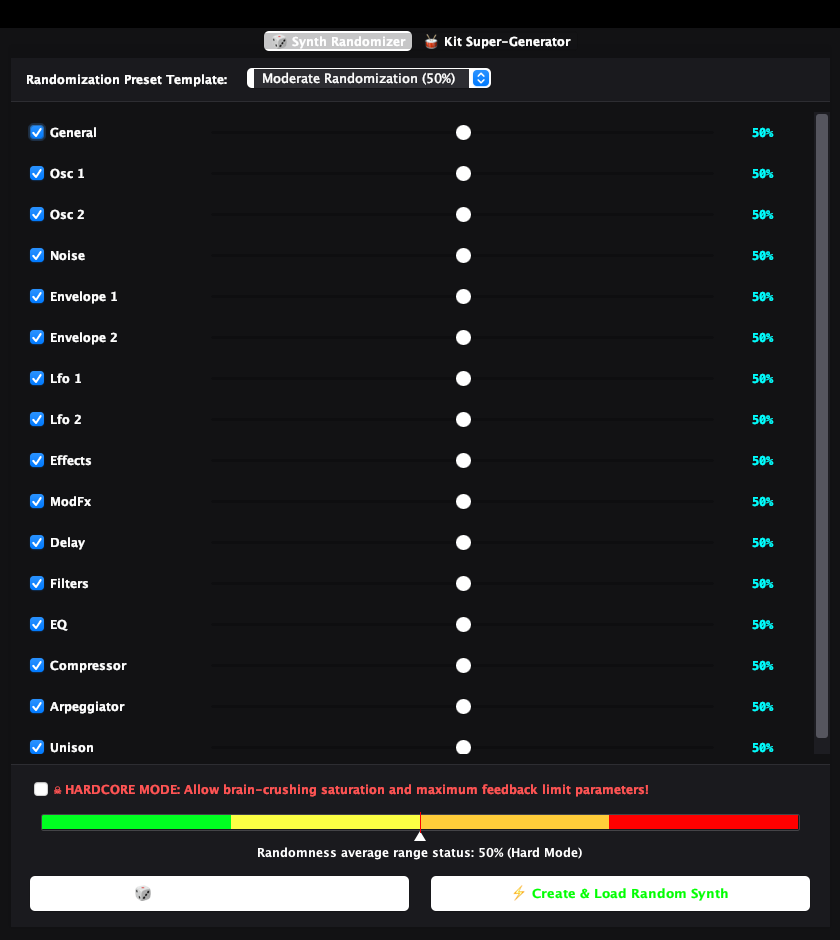
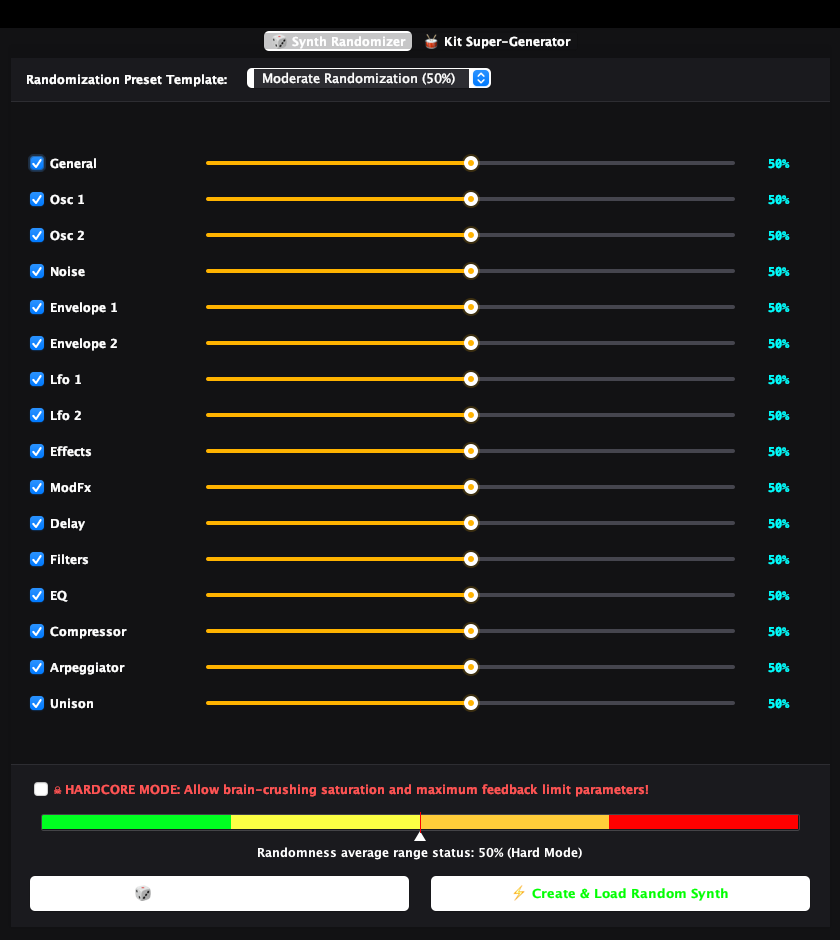
fix: resolve black-on-black slider tracks bug by implementing a custom premium track-splitting DarkSliderUI delegate globally

diff --git a/deluge/src/main/java/org/chuck/deluge/ui/DarkSliderUI.java b/deluge/src/main/java/org/chuck/deluge/ui/DarkSliderUI.java
@@ -1,0 +1,106 @@
+package org.chuck.deluge.ui;
+
+import java.awt.*;
+import javax.swing.*;
+import javax.swing.plaf.basic.BasicSliderUI;
+
+/**
+ * A luxury, modern dark-neon JSlider UI delegate. Paints a custom sleek 4px rounded track rail with
+ * split active/inactive segments and a glossy circular thumb knob with neon outer glow rings.
+ */
+public class DarkSliderUI extends BasicSliderUI {
+
+  private final Color accentColor;
+
+  public static javax.swing.plaf.ComponentUI createUI(JComponent c) {
+    return new DarkSliderUI((JSlider) c, new Color(0xff, 0xb3, 0x00)); // Default System Gold Amber!
+  }
+
+  public DarkSliderUI(JSlider b, Color accentColor) {
+    super(b);
+    this.accentColor = accentColor;
+  }
+
+  public static void styleSlider(JSlider slider, Color accentColor) {
+    slider.setUI(new DarkSliderUI(slider, accentColor));
+    slider.setFocusable(false);
+    slider.setBackground(
+        slider.getParent() != null
+            ? slider.getParent().getBackground()
+            : new Color(0x1a, 0x1a, 0x1e));
+  }
+
+  @Override
+  public void paintTrack(Graphics g) {
+    Graphics2D g2 = (Graphics2D) g.create();
+    g2.setRenderingHint(RenderingHints.KEY_ANTIALIASING, RenderingHints.VALUE_ANTIALIAS_ON);
+
+    int cy;
+    int h = 4; // Sleek thin track line footprint
+    Color trackColor = new Color(0x45, 0x45, 0x4e); // Subtle high-contrast silver-charcoal
+
+    if (slider.getOrientation() == JSlider.HORIZONTAL) {
+      cy = trackRect.y + (trackRect.height / 2) - (h / 2);
+      int thumbX = thumbRect.x + (thumbRect.width / 2);
+
+      // Draw active segment (left of thumb)
+      g2.setColor(accentColor);
+      g2.fillRoundRect(trackRect.x, cy, Math.max(0, thumbX - trackRect.x), h, h, h);
+
+      // Draw inactive segment (right of thumb)
+      g2.setColor(trackColor);
+      g2.fillRoundRect(thumbX, cy, Math.max(0, (trackRect.x + trackRect.width) - thumbX), h, h, h);
+    } else {
+      // Vertical track splitting
+      int cx = trackRect.x + (trackRect.width / 2) - (h / 2);
+      int thumbY = thumbRect.y + (thumbRect.height / 2);
+
+      // Draw active segment (bottom of thumb to end)
+      g2.setColor(accentColor);
+      g2.fillRoundRect(cx, thumbY, h, Math.max(0, (trackRect.y + trackRect.height) - thumbY), h, h);
+
+      // Draw inactive segment (top to bottom of thumb)
+      g2.setColor(trackColor);
+      g2.fillRoundRect(cx, trackRect.y, h, Math.max(0, thumbY - trackRect.y), h, h);
+    }
+    g2.dispose();
+  }
+
+  @Override
+  public void paintThumb(Graphics g) {
+    Graphics2D g2 = (Graphics2D) g.create();
+    g2.setRenderingHint(RenderingHints.KEY_ANTIALIASING, RenderingHints.VALUE_ANTIALIAS_ON);
+
+    // Draw circular outer glow shadow ring
+    Color glowColor =
+        new Color(accentColor.getRed(), accentColor.getGreen(), accentColor.getBlue(), 45);
+    g2.setColor(glowColor);
+    g2.fillOval(thumbRect.x - 2, thumbRect.y - 2, thumbRect.width + 4, thumbRect.height + 4);
+
+    // Draw main circular white thumb face
+    g2.setColor(Color.WHITE);
+    g2.fillOval(thumbRect.x, thumbRect.y, thumbRect.width, thumbRect.height);
+
+    // Draw active circular accent core
+    g2.setColor(accentColor);
+    int cw = 6;
+    g2.fillOval(
+        thumbRect.x + (thumbRect.width / 2) - (cw / 2),
+        thumbRect.y + (thumbRect.height / 2) - (cw / 2),
+        cw,
+        cw);
+
+    g2.dispose();
+  }
+
+  @Override
+  public void paintFocus(Graphics g) {
+    // Suppress basic default focus ring completely for modern clean look!
+  }
+
+  @Override
+  protected Dimension getThumbSize() {
+    // Set standard circular dimensions footprint for the thumb knob
+    return new Dimension(14, 14);
+  }
+}

diff --git a/deluge/src/main/java/org/chuck/deluge/ui/SwingKitConfigDialog.java b/deluge/src/main/java/org/chuck/deluge/ui/SwingKitConfigDialog.java
@@ -213,7 +213,7 @@ public class SwingKitConfigDialog extends JDialog {
     cc.gridx = 1;
     cc.weightx = 1.0;
     JSlider startSlider = new JSlider(0, 100, 0);
-    startSlider.setBackground(SwingSynthConfigDialog.BG_CARD);
+    DarkSliderUI.styleSlider(startSlider, new Color(0x00, 0xe6, 0x76));
     cropPanel.add(startSlider, cc);
 
     cc.gridx = 2;
@@ -234,7 +234,7 @@ public class SwingKitConfigDialog extends JDialog {
     cc.gridx = 1;
     cc.weightx = 1.0;
     JSlider endSlider = new JSlider(0, 100, 100);
-    endSlider.setBackground(SwingSynthConfigDialog.BG_CARD);
+    DarkSliderUI.styleSlider(endSlider, new Color(0xff, 0x17, 0x44));
     cropPanel.add(endSlider, cc);
 
     cc.gridx = 2;
@@ -255,7 +255,7 @@ public class SwingKitConfigDialog extends JDialog {
     cc.gridx = 1;
     cc.weightx = 1.0;
     JSlider loopStartSlider = new JSlider(0, 100, 0);
-    loopStartSlider.setBackground(SwingSynthConfigDialog.BG_CARD);
+    DarkSliderUI.styleSlider(loopStartSlider, new Color(0x29, 0xb6, 0xf6));
     cropPanel.add(loopStartSlider, cc);
 
     cc.gridx = 2;
@@ -276,7 +276,7 @@ public class SwingKitConfigDialog extends JDialog {
     cc.gridx = 1;
     cc.weightx = 1.0;
     JSlider loopEndSlider = new JSlider(0, 100, 100);
-    loopEndSlider.setBackground(SwingSynthConfigDialog.BG_CARD);
+    DarkSliderUI.styleSlider(loopEndSlider, new Color(0xec, 0x40, 0x7a));
     cropPanel.add(loopEndSlider, cc);
 
     cc.gridx = 2;
@@ -840,7 +840,7 @@ public class SwingKitConfigDialog extends JDialog {
     panel.add(lbl, c);
 
     JSlider slider = new JSlider(min, max, Math.max(min, Math.min(max, initial)));
-    slider.setBackground(SwingSynthConfigDialog.BG_CARD);
+    DarkSliderUI.styleSlider(slider, new Color(0xff, 0xb3, 0x00));
     slider.setToolTipText(tooltip);
     attachHoverHelp(slider, tooltip);
 

diff --git a/deluge/src/main/java/org/chuck/deluge/ui/SwingDelugeApp.java b/deluge/src/main/java/org/chuck/deluge/ui/SwingDelugeApp.java
@@ -2783,6 +2783,9 @@ public class SwingDelugeApp extends JFrame {
               "List.selectionBackground", new java.awt.Color(0x00, 0x7a, 0xcc));
           javax.swing.UIManager.put("List.selectionForeground", java.awt.Color.WHITE);
 
+          // Global JSlider UI delegate registration (solves black-on-black tracks bug!)
+          javax.swing.UIManager.put("SliderUI", "org.chuck.deluge.ui.DarkSliderUI");
+
           // Global text inputs focus and contrast overrides
           javax.swing.UIManager.put("TextField.background", new java.awt.Color(0x1e, 0x1e, 0x20));
           javax.swing.UIManager.put("TextField.foreground", java.awt.Color.WHITE);

diff --git a/deluge/src/main/java/org/chuck/deluge/ui/ModulationPanel.java b/deluge/src/main/java/org/chuck/deluge/ui/ModulationPanel.java
@@ -280,7 +280,7 @@ public class ModulationPanel extends JPanel {
       c.weightx = 1.0;
       int sliderMin = isBipolar ? -100 : 0;
       JSlider amtSlider = new JSlider(sliderMin, 100, (int) (pc.amount() * 100));
-      amtSlider.setBackground(new Color(0x1a, 0x1a, 0x1e));
+      DarkSliderUI.styleSlider(amtSlider, Color.CYAN);
 
       JLabel amtVal = new JLabel(String.format("%+.0f%%", pc.amount() * 100));
       amtVal.setFont(new Font("Monospaced", Font.BOLD, 12));

diff --git a/deluge/src/main/java/org/chuck/deluge/ui/SwingAudioSlicerDialog.java b/deluge/src/main/java/org/chuck/deluge/ui/SwingAudioSlicerDialog.java
@@ -140,7 +140,7 @@ public class SwingAudioSlicerDialog extends JDialog {
     volRow.add(volLabelTitle);
 
     volSlider = new JSlider(0, 100, 80);
-    volSlider.setBackground(new Color(0x1a, 0x1a, 0x1e));
+    DarkSliderUI.styleSlider(volSlider, Color.CYAN);
     volSlider.setPreferredSize(new Dimension(150, 20));
     volSlider.addChangeListener(e -> volLabel.setText(volSlider.getValue() + "%"));
     volRow.add(volSlider);
